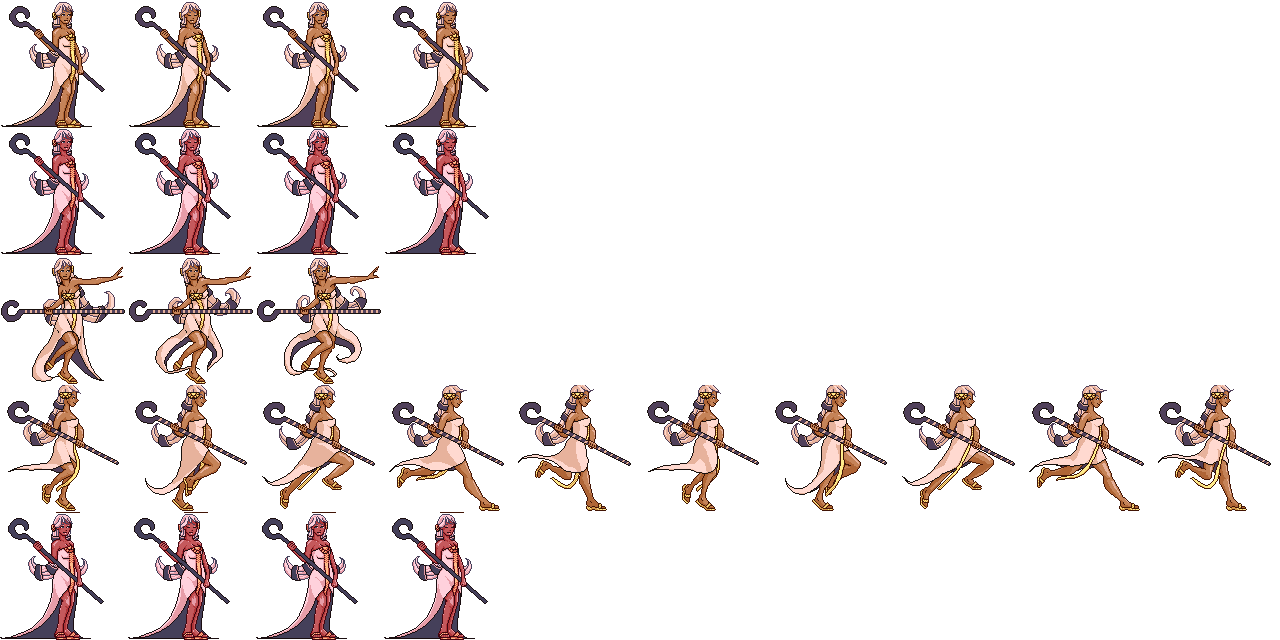
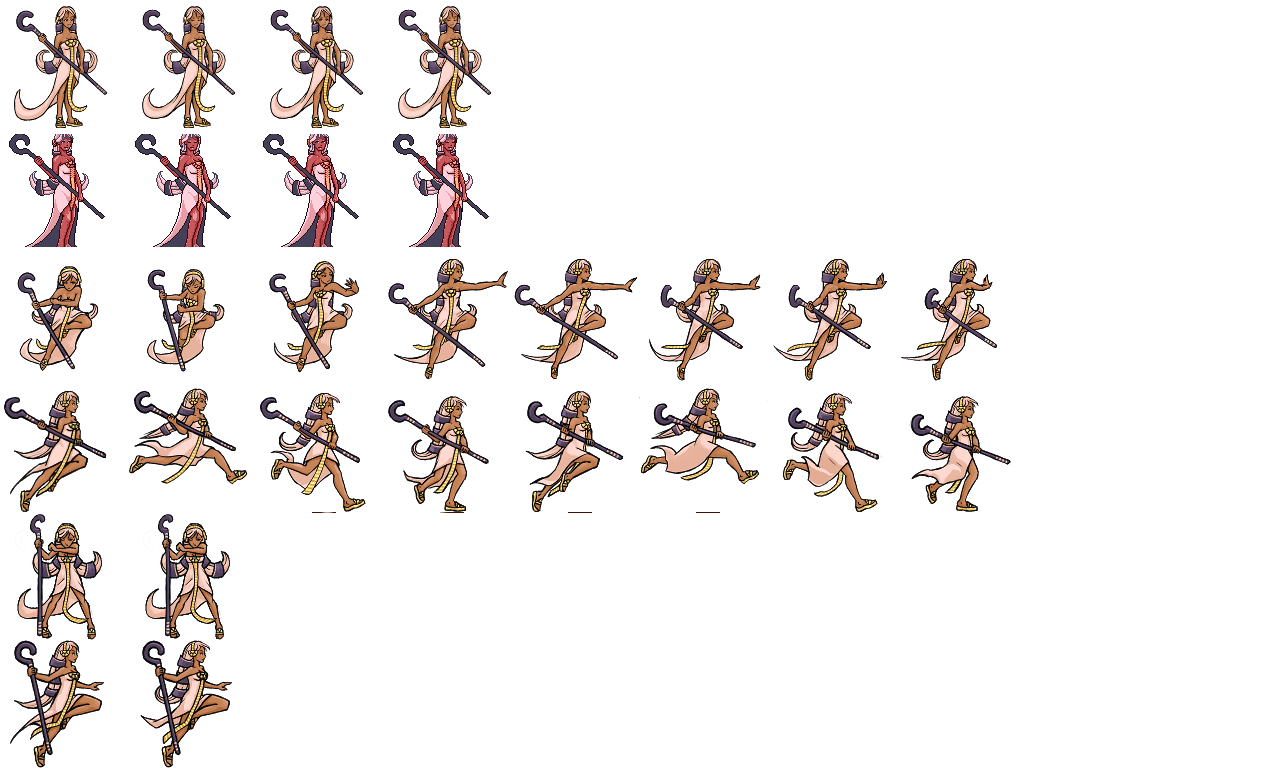
New Stzle tileset added, Charakter rework, Enemy Spritesheet.

diff --git a/src/gameworld.py b/src/gameworld.py
@@ -214,8 +214,8 @@ class GameWorld(object):
         vel = components.Velocity([0, 0])
         #Create players animations
         temp = pygame.image.load(os.path.join('data', 'char.png')).convert_alpha()
-        anim_list = [4, 4, 3, 10, 4]
-        anim_time_list = [240, 180, 44, 60, 30]
+        anim_list = [4, 4, 8, 8, 2, 2]
+        anim_time_list = [240, 180, 44, 60, 30, 44]
         anim = components.Appearance(temp, 128, 128, anim_list, anim_time_list)
         anim.rect.center = coll.center
         direction = components.Direction([1, 0])
@@ -261,9 +261,9 @@ class GameWorld(object):
         coll = components.Collider(position[0], position[1], 50, 96)
         vel = components.Velocity([0, 0])
         #Create enemy's animations
-        temp = pygame.image.load(os.path.join('data', 'char.png')).convert_alpha()
-        anim_list = [4, 4, 3, 10, 4]
-        anim_time_list = [240, 60, 44, 60, 10]
+        temp = pygame.image.load(os.path.join('data', 'enemy1.png')).convert_alpha()
+        anim_list = [2, 4, 4, 8, 4, 1]
+        anim_time_list = [240, 60, 44, 120, 10, 10]
         anim = components.Appearance(temp, 128, 128, anim_list, anim_time_list)
         anim.rect.center = coll.center
         direction = components.Direction([1, 0])

diff --git a/src/animationsystem.py b/src/animationsystem.py
@@ -165,12 +165,12 @@ class AnimationSystem(object):
     
     def jump_animation_running(self, entity_ID):
         current_animation = self.world.appearance[entity_ID].current_animation
-        return current_animation == 2
+        return current_animation == 5
     
     def play_jump_animation(self, entity_ID):
-        #Jump animation is 2
+        #Jump animation is 5
         if len(self.world.appearance[entity_ID].frames) > 2:
-            self.world.appearance[entity_ID].current_animation = 2
+            self.world.appearance[entity_ID].current_animation = 5
             self.world.appearance[entity_ID].current_frame_x = 0
             self.world.appearance[entity_ID].play_animation_till_end = False
             self.world.appearance[entity_ID].play_once = False
@@ -204,7 +204,7 @@ class AnimationSystem(object):
     
     def play_stun_animation(self, entity_ID, duration):
         #Stun animation is 4
-        if len(self.world.appearance[entity_ID].frames) > 4:
+        if len(self.world.appearance[entity_ID].frames) > 1:
             self.world.appearance[entity_ID].current_animation = 4
             self.world.appearance[entity_ID].set_animation_duration(4, duration)
             self.world.appearance[entity_ID].current_frame_x = 0
